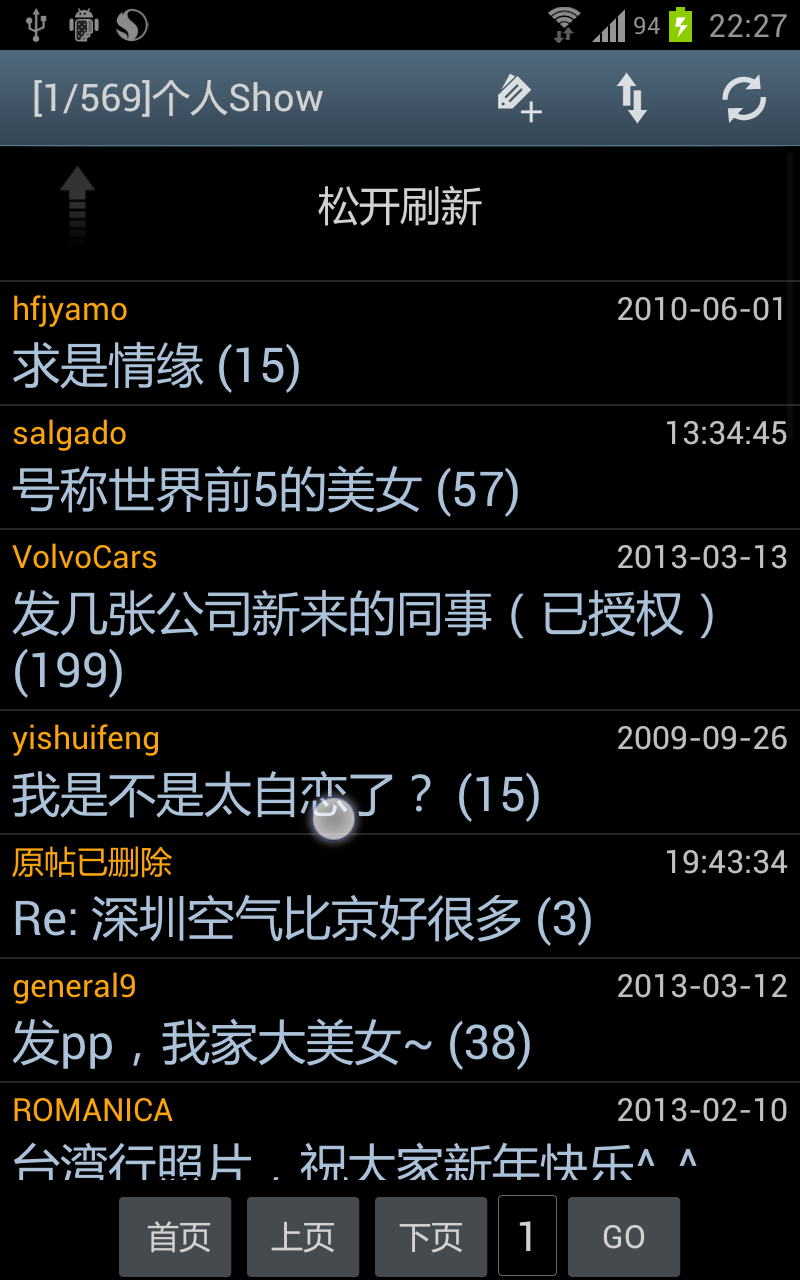
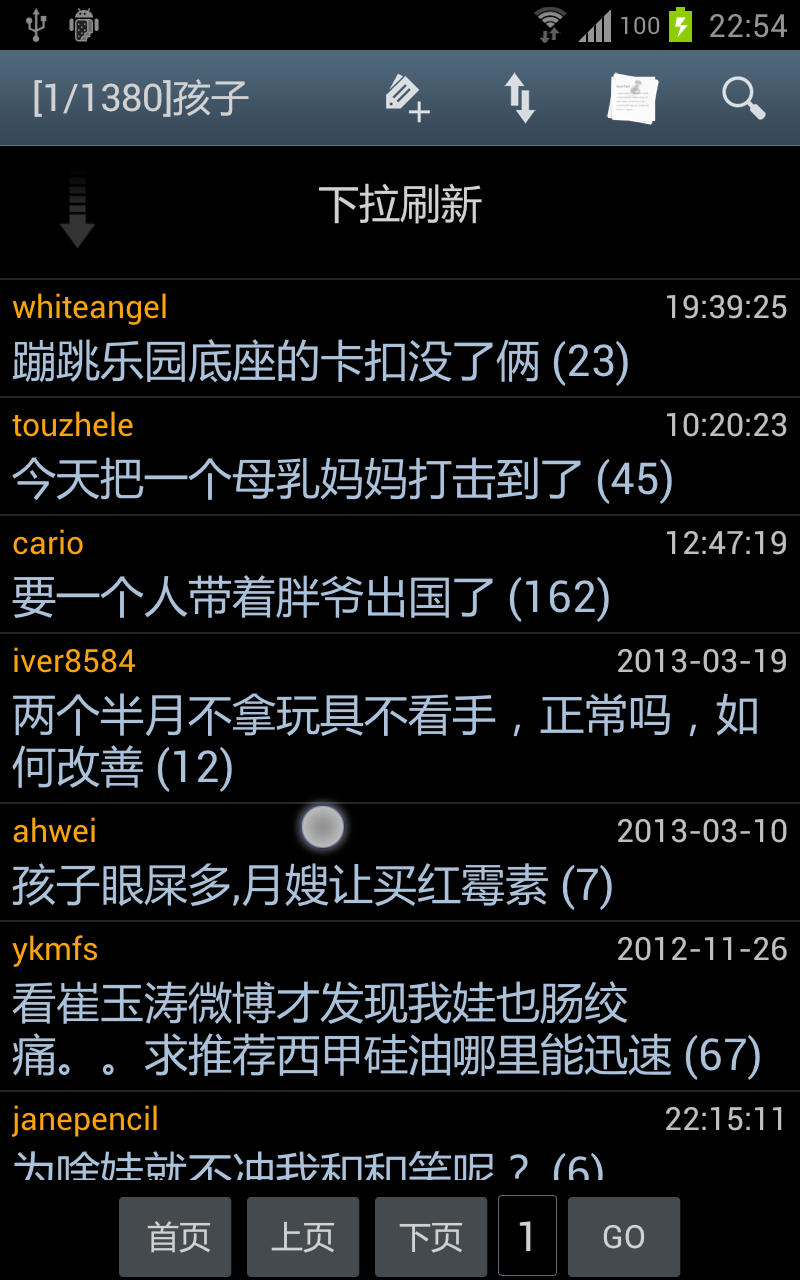
update screenshots

diff --git a/help.html b/help.html
@@ -49,7 +49,7 @@
 <a data-gallery="gallery" href="screenshots/category.png" title="所有版面列表：输入版面中英文，可以自动提示补全。强制更新列表请按'刷新'">
   <img src="screenshots/category.png" class="thumb"></a>
 
-<a data-gallery="gallery" href="screenshots/refresh.png" title="文章列表：向下拖动列表可刷新; 图标分别为：写文章、切换同主题/普通模式、刷新；按菜单键可搜索帖子">
+<a data-gallery="gallery" href="screenshots/refresh.png" title="文章列表：向下拖动列表可刷新; 图标分别为：写文章、切换同主题/普通模式、切换置底、搜索；按菜单键可有更多选项">
   <img src="screenshots/refresh.png" class="thumb"></a>
 
 <a data-gallery="gallery" href="screenshots/search.png" title="文章列表：搜索帖子">
